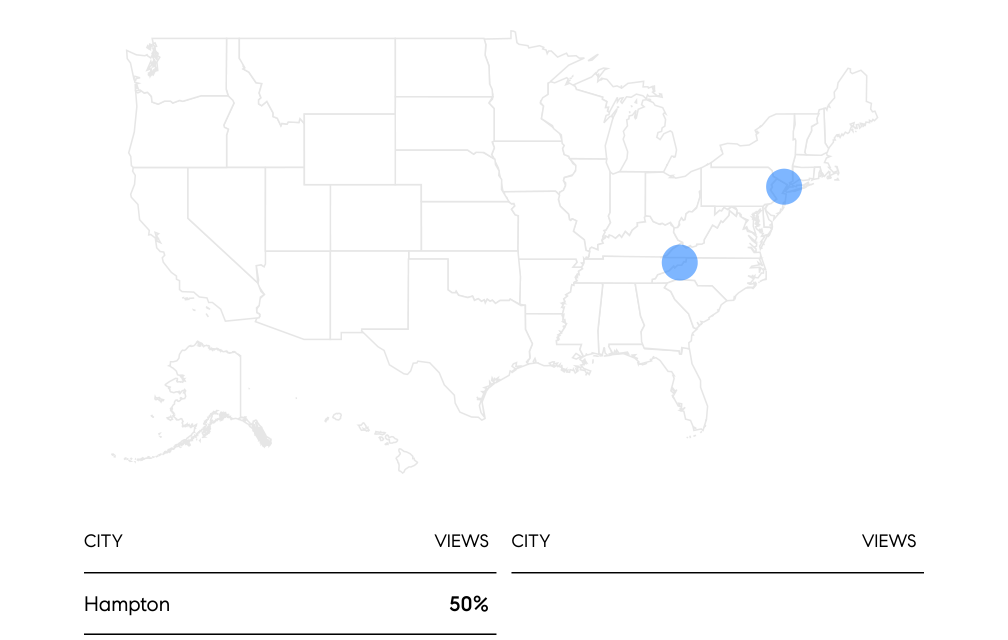
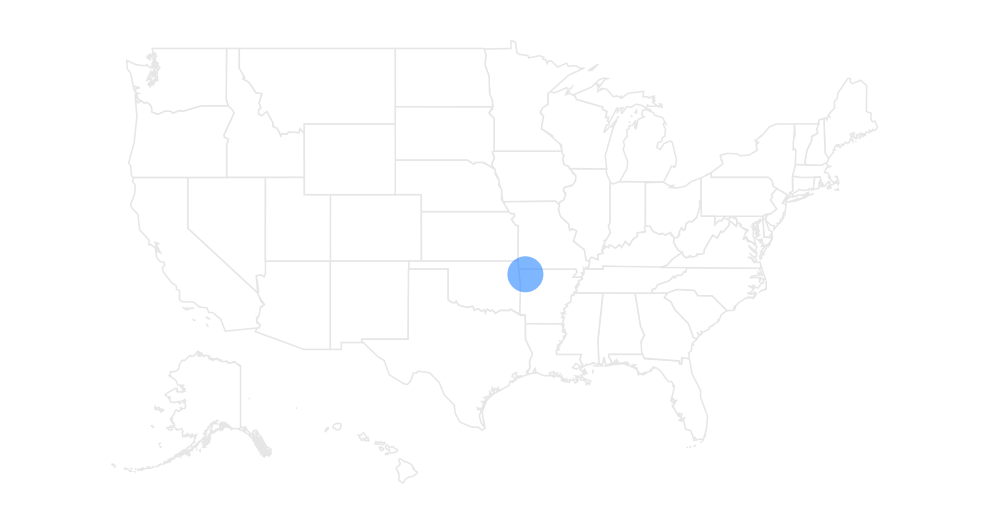
Update Anna Jimenez 133 NE 2nd Ave Unit 1208 (Oct 21-27, 2026): DOM 179, views 48/2173, Spanish strategic feedback, Springdale map

diff --git a/133-ne-2nd-ave-unit-1208/index.html b/133-ne-2nd-ave-unit-1208/index.html
@@ -434,7 +434,7 @@
                 <div class="meta-item"></div>
                 <div class="meta-item">
                     <svg width="16" height="16" viewBox="0 0 24 24" fill="none" stroke="currentColor" stroke-width="2"><rect x="3" y="4" width="18" height="18" rx="2"/><path d="M16 2v4M8 2v4M3 10h18"/></svg>
-                    Período del Reporte: 5 Oct 2026 - 11 Oct 2026</div>
+                    Período del Reporte: 21 Oct 2026 - 27 Oct 2026</div>
             </div>
         </div>
         <div class="theme-toggle" onclick="toggleTheme()" title="Toggle Dark/Light Mode">
@@ -457,7 +457,7 @@
                 <div class="card">
                     <div class="card-label">Vistas Últimos 7 Días</div>
                     <div class="card-value">
-                        63
+                        48
                         <span class="card-change">Actualizado</span>
                     </div>
                 </div>
@@ -471,7 +471,7 @@
                 <div class="card">
                     <div class="card-label">Días en el Mercado</div>
                     <div class="card-value">
-                        163
+                        179
                     </div>
                 </div>
             </div>
@@ -488,8 +488,8 @@
                 </div>
                 <div class="table-row">
                     <div class="metric-name">Vistas del Anuncio (En línea)</div>
-                    <div class="last-7">63</div>
-                    <div class="grand-total">2,125</div>
+                    <div class="last-7">48</div>
+                    <div class="grand-total">2,173</div>
                 </div>
                 <div class="table-row">
                     <div class="metric-name">Visitas Presenciales</div>
@@ -498,12 +498,12 @@
                 </div>
                 <div class="table-row">
                     <div class="metric-name">Correos Enviados (Abiertos)</div>
-                    <div class="last-7">+7,320</div>
-                    <div class="grand-total">60,219</div>
+                    <div class="last-7">+8,229</div>
+                    <div class="grand-total">68,448</div>
                 </div>
                 <div class="table-row">
                     <div class="metric-name">Vistas en Redes Sociales</div>
-                    <div class="last-7">+301</div>
+                    <div class="last-7">+0</div>
                     <div class="grand-total">127,235</div>
                 </div>
             </div>
@@ -516,7 +516,13 @@
             </div>
             
             <div class="card">
-                <div class="feedback-item">
+                                <div class="feedback-item">
+                    <div class="feedback-text">
+                        "Sin visitas presenciales esta semana. El acuerdo de listado vence el sábado 31 de octubre. Se recomienda mantener la propiedad fuera del mercado durante enero/febrero de 2027, monitoreando la actividad del edificio y del mercado durante noviembre y diciembre. Dependiendo de la absorción y los precios de venta, evaluaremos si conviene mantenerla hasta el primer trimestre de 2027 o reactivarla antes."
+                        <span class="agent-date" style="display: block; margin-top: 0.5rem; font-style: normal; color: var(--text-muted); font-size: 0.85rem;">— 21 Oct - 27 Oct, 2026</span>
+                    </div>
+                </div>
+<div class="feedback-item">
                     <div class="feedback-text">
                         "Le gustó la distribución espaciosa y el aspecto general; no le gustó la tina demasiado alta y prefiere un balcón más grande. Vivirá en la unidad. Se han recibido otras llamadas para consultar sobre la cuota de la asociación (HOA), las finanzas del edificio y el período de arrendamiento."
                         <span class="agent-date" style="display: block; margin-top: 0.5rem; font-style: normal;">— Jul 27 - Aug 2, 2026</span>
@@ -543,15 +549,14 @@
             </div>
             
             <div class="card">
-                <img src="property_views_map_clean.png?v=20261012_v1" 
+                <img src="property_views_map_clean.png?v=20261028_v1" 
                      alt="Visitor Locations Map" 
                      style="width:100%; border-radius: 8px;"
                      onerror="this.style.display='none'; this.nextElementSibling.style.display='block'">
                 <div style="display:none; background: rgba(0,0,0,0.05); padding: 3rem; text-align: center; border-radius: 8px; color: var(--text-muted);"><em>Map not available</em></div>
                 <div class="city-stats-grid" style="display: grid; grid-template-columns: 1fr 1fr; gap: 2rem; margin-top: 2rem; padding-top: 2rem; border-top: 1px solid var(--border);">
-    <div style="display: flex; justify-content: space-between; padding: 0.5rem 0; border-bottom: 1px solid rgba(0,0,0,0.05);"><span style="font-weight: 600;">Hampton</span><span style="color: var(--accent); font-weight: 700;">50%</span></div>
-    <div style="display: flex; justify-content: space-between; padding: 0.5rem 0; border-bottom: 1px solid rgba(0,0,0,0.05);"><span style="font-weight: 600;">Clifton</span><span style="color: var(--accent); font-weight: 700;">50%</span></div>
-</div></div>
+                    <div style="display: flex; justify-content: space-between; padding: 0.5rem 0; border-bottom: 1px solid rgba(0,0,0,0.05);"><span style="font-weight: 600;">Springdale</span><span style="color: var(--accent); font-weight: 700;">100%</span></div>
+                </div>
             </div>
         </div>
     </main>
@@ -562,7 +567,7 @@
             <p>Compass One | (305) 322-3223 | anna.jimenez@compass.com</p>
         </div>
         <div class="footer-note">
-            Generado el 12 de Octubre de 2026. Datos obtenidos de Compass Insights y comentarios de visitas.</div>
+            Generado el 28 de Octubre de 2026. Datos obtenidos de Compass Insights y comentarios de visitas.</div>
     </footer>
 
     <script>

diff --git a/agents/anna-jimenez/133-ne-2nd-ave-unit-1208/index.html b/agents/anna-jimenez/133-ne-2nd-ave-unit-1208/index.html
@@ -434,7 +434,7 @@
                 <div class="meta-item"></div>
                 <div class="meta-item">
                     <svg width="16" height="16" viewBox="0 0 24 24" fill="none" stroke="currentColor" stroke-width="2"><rect x="3" y="4" width="18" height="18" rx="2"/><path d="M16 2v4M8 2v4M3 10h18"/></svg>
-                    Período del Reporte: 5 Oct 2026 - 11 Oct 2026</div>
+                    Período del Reporte: 21 Oct 2026 - 27 Oct 2026</div>
             </div>
         </div>
         <div class="theme-toggle" onclick="toggleTheme()" title="Toggle Dark/Light Mode">
@@ -457,7 +457,7 @@
                 <div class="card">
                     <div class="card-label">Vistas Últimos 7 Días</div>
                     <div class="card-value">
-                        63
+                        48
                         <span class="card-change">Actualizado</span>
                     </div>
                 </div>
@@ -471,7 +471,7 @@
                 <div class="card">
                     <div class="card-label">Días en el Mercado</div>
                     <div class="card-value">
-                        163
+                        179
                     </div>
                 </div>
             </div>
@@ -488,8 +488,8 @@
                 </div>
                 <div class="table-row">
                     <div class="metric-name">Vistas del Anuncio (En línea)</div>
-                    <div class="last-7">63</div>
-                    <div class="grand-total">2,125</div>
+                    <div class="last-7">48</div>
+                    <div class="grand-total">2,173</div>
                 </div>
                 <div class="table-row">
                     <div class="metric-name">Visitas Presenciales</div>
@@ -498,12 +498,12 @@
                 </div>
                 <div class="table-row">
                     <div class="metric-name">Correos Enviados (Abiertos)</div>
-                    <div class="last-7">+7,320</div>
-                    <div class="grand-total">60,219</div>
+                    <div class="last-7">+8,229</div>
+                    <div class="grand-total">68,448</div>
                 </div>
                 <div class="table-row">
                     <div class="metric-name">Vistas en Redes Sociales</div>
-                    <div class="last-7">+301</div>
+                    <div class="last-7">+0</div>
                     <div class="grand-total">127,235</div>
                 </div>
             </div>
@@ -516,7 +516,13 @@
             </div>
             
             <div class="card">
-                <div class="feedback-item">
+                                <div class="feedback-item">
+                    <div class="feedback-text">
+                        "Sin visitas presenciales esta semana. El acuerdo de listado vence el sábado 31 de octubre. Se recomienda mantener la propiedad fuera del mercado durante enero/febrero de 2027, monitoreando la actividad del edificio y del mercado durante noviembre y diciembre. Dependiendo de la absorción y los precios de venta, evaluaremos si conviene mantenerla hasta el primer trimestre de 2027 o reactivarla antes."
+                        <span class="agent-date" style="display: block; margin-top: 0.5rem; font-style: normal; color: var(--text-muted); font-size: 0.85rem;">— 21 Oct - 27 Oct, 2026</span>
+                    </div>
+                </div>
+<div class="feedback-item">
                     <div class="feedback-text">
                         "Le gustó la distribución espaciosa y el aspecto general; no le gustó la tina demasiado alta y prefiere un balcón más grande. Vivirá en la unidad. Se han recibido otras llamadas para consultar sobre la cuota de la asociación (HOA), las finanzas del edificio y el período de arrendamiento."
                         <span class="agent-date" style="display: block; margin-top: 0.5rem; font-style: normal;">— Jul 27 - Aug 2, 2026</span>
@@ -543,15 +549,14 @@
             </div>
             
             <div class="card">
-                <img src="property_views_map_clean.png?v=20261012_v1" 
+                <img src="property_views_map_clean.png?v=20261028_v1" 
                      alt="Visitor Locations Map" 
                      style="width:100%; border-radius: 8px;"
                      onerror="this.style.display='none'; this.nextElementSibling.style.display='block'">
                 <div style="display:none; background: rgba(0,0,0,0.05); padding: 3rem; text-align: center; border-radius: 8px; color: var(--text-muted);"><em>Map not available</em></div>
                 <div class="city-stats-grid" style="display: grid; grid-template-columns: 1fr 1fr; gap: 2rem; margin-top: 2rem; padding-top: 2rem; border-top: 1px solid var(--border);">
-    <div style="display: flex; justify-content: space-between; padding: 0.5rem 0; border-bottom: 1px solid rgba(0,0,0,0.05);"><span style="font-weight: 600;">Hampton</span><span style="color: var(--accent); font-weight: 700;">50%</span></div>
-    <div style="display: flex; justify-content: space-between; padding: 0.5rem 0; border-bottom: 1px solid rgba(0,0,0,0.05);"><span style="font-weight: 600;">Clifton</span><span style="color: var(--accent); font-weight: 700;">50%</span></div>
-</div></div>
+                    <div style="display: flex; justify-content: space-between; padding: 0.5rem 0; border-bottom: 1px solid rgba(0,0,0,0.05);"><span style="font-weight: 600;">Springdale</span><span style="color: var(--accent); font-weight: 700;">100%</span></div>
+                </div>
             </div>
         </div>
     </main>
@@ -562,7 +567,7 @@
             <p>Compass One | (305) 322-3223 | anna.jimenez@compass.com</p>
         </div>
         <div class="footer-note">
-            Generado el 12 de Octubre de 2026. Datos obtenidos de Compass Insights y comentarios de visitas.</div>
+            Generado el 28 de Octubre de 2026. Datos obtenidos de Compass Insights y comentarios de visitas.</div>
     </footer>
 
     <script>
